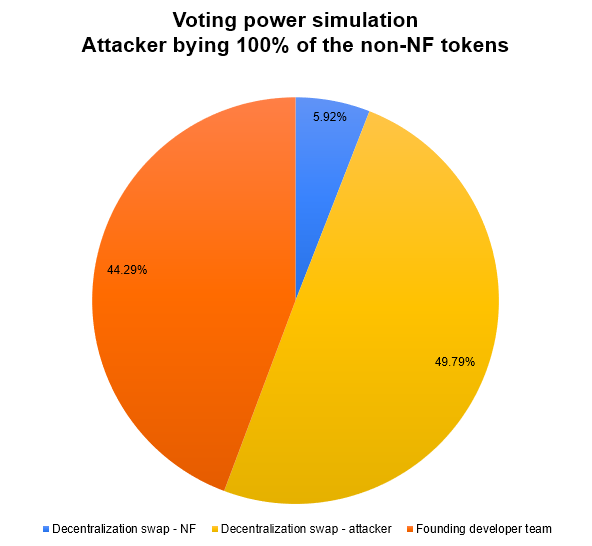
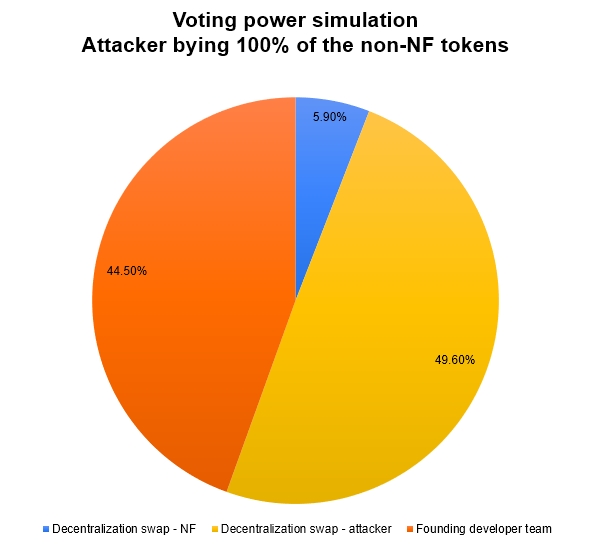
fix: changed the allocations

diff --git a/whitepaper/tokenomics/allocation.md b/whitepaper/tokenomics/allocation.md
@@ -11,21 +11,21 @@ When the SNS DAO is successfully launched, the allocation of the total supply of
 ![match renevue distribution](./img/token-allocation.png)
 
 ### SNS Sale
-**20%** of the supply, or **20,000,000** (twenty million) tokens, will be made available for sale, to raise funds and decentralize the platform governance.  
+**35%** of the supply, or **35,000,000** (thirty-five million) tokens, will be made available for sale, to raise funds and decentralize the platform governance.  
 
 To be part of the SNS decentralization swap, the participants must deposit ICP into the SNS to receive NAT tokens in proportion to the ICP deposited, depending on the quantity of ICP raised in total at the final.  
 
 The tokens will be divided into 7 neurons of equal value, with dissolve delays of 0, 3, 6, 9, 12, 15 and 18 months.
 
 ### Founding Team
-**17%** of the supply, or **17,000,000** (seventeen million hundred thousands) tokens, will be allocated to the founding team.  
+**30%** of the supply, or **30,000,000** (thirty million) tokens, will be allocated to the founding team.  
 
 The team will receive a basket of 16 neurons, each with equal values. These tokens will be released over a period of **4 years**, in equal portions at intervals of 3 months. Each neuron will have a dissolve delay of 1 month.
 
 This structure ensures the team's long-term interest in the success of the project and guarantees their commitment to the platform.
 
 ### Treasury
-**63%** of the supply, or **63,900,000** (sixth and three million) tokens, will be allocated to the DAO's treasury.  
+**35%** of the supply, or **35,000,000** (thirty-five million) tokens, will be allocated to the DAO's treasury.  
 
 The treasury, under complete control of the DAO, serves as a strategic reserve to be utilized for approved purposes such as partnerships, grants to NFT creators and game developers, prizes in future championships, community airdrops, token burning, and so on.
 

diff --git a/whitepaper/tokenomics/valuation.md b/whitepaper/tokenomics/valuation.md
@@ -5,11 +5,13 @@ title: Valuation
 
 # Valuation and price range
 
-With 20% of the total supply for sale, the valuation (market cap) and price of each NAT token will be:
+With 35% of the total supply for sale, the valuation (market cap) and price of each NAT token will be:
 
-| Raised directly (ICP) | Raised NF (ICP) | Valuation (ICP) | Price (ICP) |
-| --------------------: | --------------: | --------------: | ----------: |
-| 100,000 | 65,000 | 825,000 | 0.00825
-| 500,000 | 65,000 | 2,825,000 | 0.02825
+| Raised directly (ICP) | Raised NF (ICP) | Valuation (ICP) | Token price (ICP) | Valuation (USD) | Token price (USD) |
+| --------------------: | --------------: | --------------: | ----------: | --------------: | ----------: |
+| 100,000 | 65,000 | 471,428 | 0.00471 | $ 5,657,136 | $ 0.05652 |
+| 500,000 | 65,000 | 1,614,285 | 0.01614 | $ 19,371,420 | $ 0.19368 |
 
-Note: Assuming 65,000 ICP as the Neuro Fund (NF) participation; however, this value can fluctuate daily and will only be known exactly when the swap ends.
+Notes: 
+1. Assuming 65,000 ICP as the Neuro Fund (NF) participation; however, this value can fluctuate daily and will only be known exactly when the swap ends.
+2. Considering a ICP/USD ratio of $ 12,00

diff --git a/whitepaper/tokenomics/treasury.md b/whitepaper/tokenomics/treasury.md
@@ -4,7 +4,7 @@ sidebar_position: 5
 
 # Treasury
 
-When the SNS decentralization sale finish, the DAO will be in control of a treasury composed by ICP (the proceeeds from the sale) and $NAT tokens (the 63% of the total supply).
+When the SNS decentralization sale finish, the DAO will be in control of a treasury composed by ICP (the proceeeds from the sale) and $NAT tokens (the 35% of the total supply).
 
 The treasury, stored in both the ICP ledger account and the $NAT ledger account of the DAO, will be allocated through proposals that must be approved by DAO members.
 

diff --git a/whitepaper/tokenomics/config.md b/whitepaper/tokenomics/config.md
@@ -10,9 +10,9 @@ The initial configuration parameters of the SNS decentralization sale/swap will 
 | Description | Value |
 | ----------- | ----: |
 | Supply at genesis (NAT) | 100,000,000 |
-| Tokens for sale (NAT) | 20,000,000 |
-| Founding team balance (NAT) | 17,000,000 |
-| Treasury balance (NAT) | 63,000,000 |
+| Tokens for sale (NAT) | 35,000,000 |
+| Founding team balance (NAT) | 30,000,000 |
+| Treasury balance (NAT) | 35,000,000 |
 | Initial reward rate | 4% |
 | Final reward rate | 2% |
 | Transition duration | 8 years |

diff --git a/whitepaper/tokenomics/governance.md b/whitepaper/tokenomics/governance.md
@@ -16,7 +16,7 @@ With the parameters defined at the configuration page, the voting power at genes
 
 ![voting power at TGE](./img/voting-power-tge.png)
 
-In conclusion, as illustrated in the chart above, the team will possess less voting power than the other participants: 49.29% vs 50.71%.
+In conclusion, as illustrated in the chart above, the team will possess less voting power than the other participants: 49.5% vs 50.5%.
 
 ## First proposals
 
